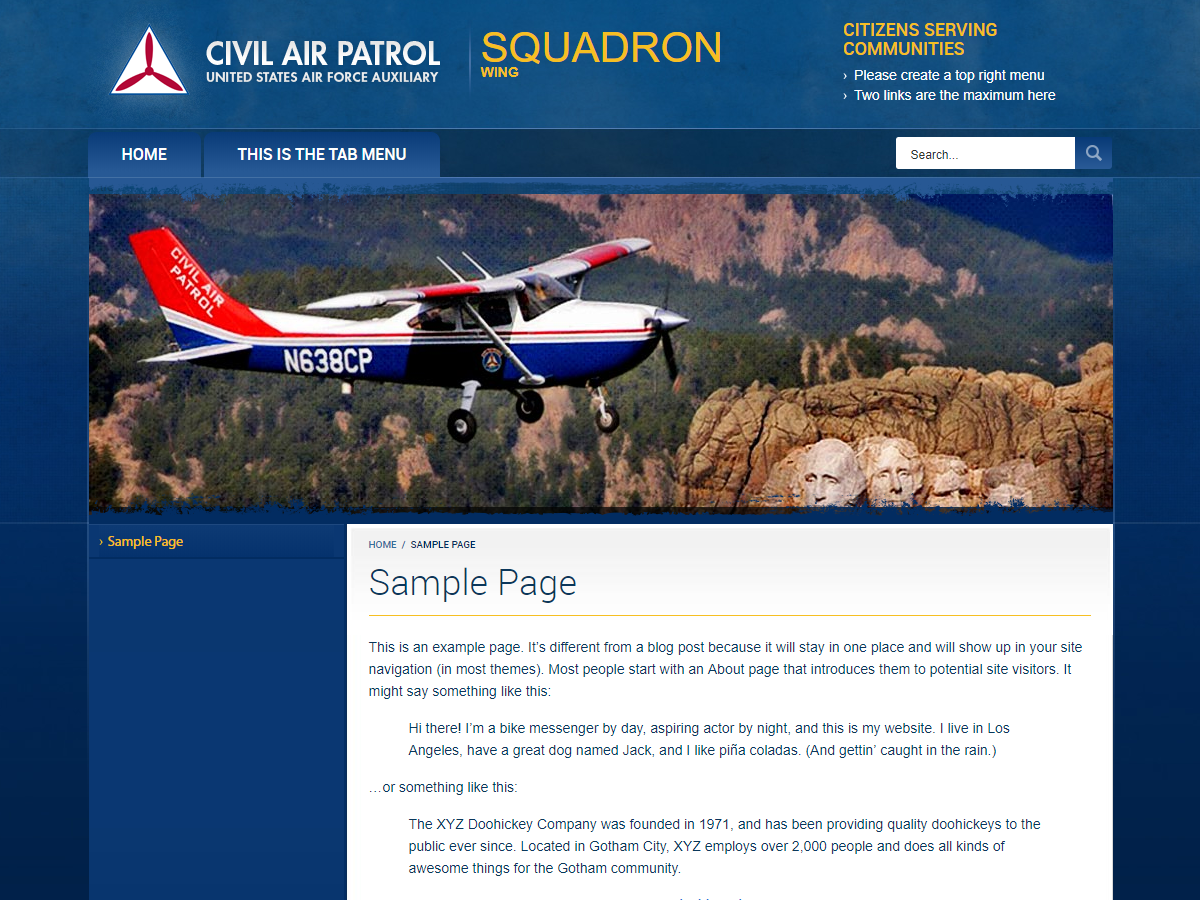
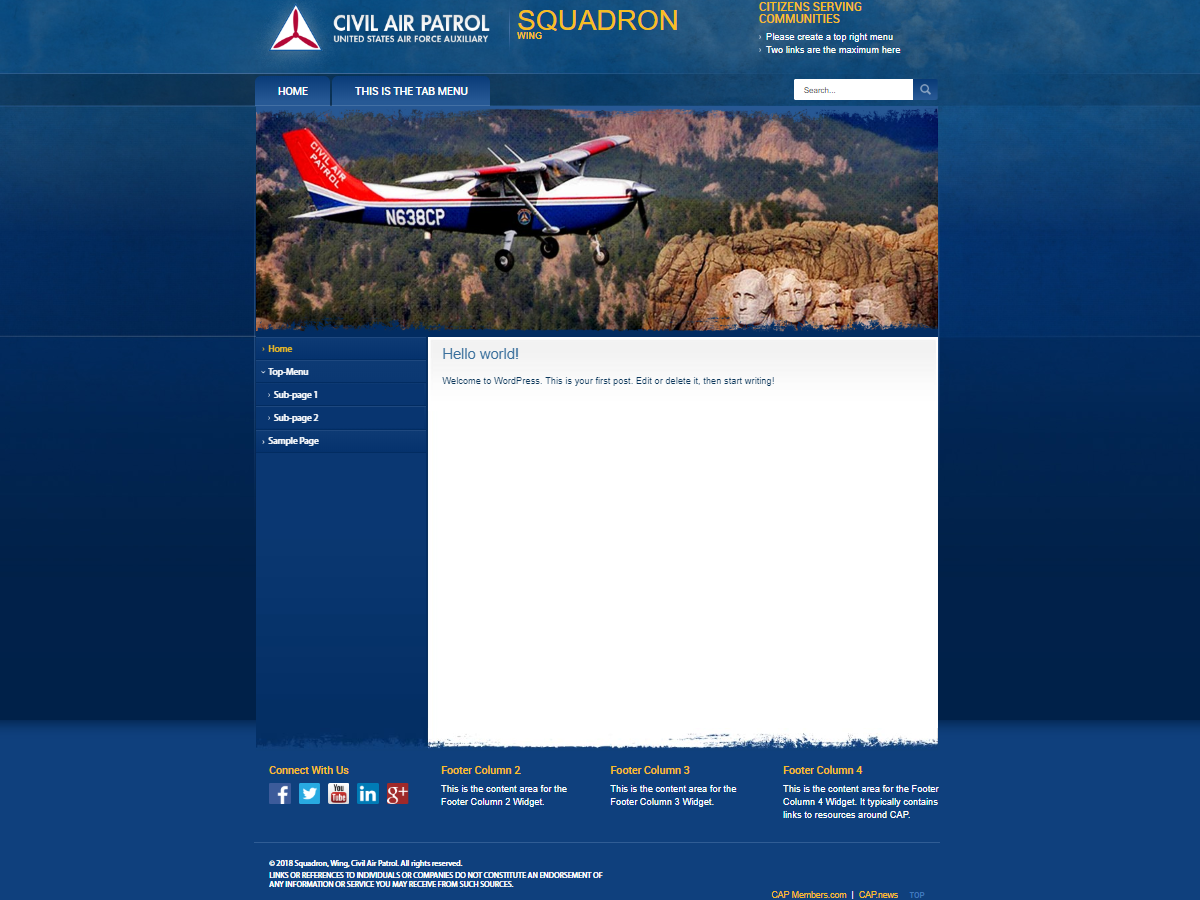
Resolves #9 - Added 2nd level menu support to side menu

diff --git a/css/screen.css b/css/screen.css
@@ -227,7 +227,7 @@ body{
 	background: rgb(9,59,120);
 	background: -moz-linear-gradient(top,  rgba(9,59,120,1) 1%, rgba(39,89,149,1) 88%);
 	background: -webkit-gradient(linear, left top, left bottom, color-stop(1%,rgba(9,59,120,1)), color-stop(88%,rgba(39,89,149,1))); /
-background: -webkit-linear-gradient(top,  rgba(9,59,120,1) 1%,rgba(39,89,149,1) 88%);
+	background: -webkit-linear-gradient(top,  rgba(9,59,120,1) 1%,rgba(39,89,149,1) 88%);
 	background: -o-linear-gradient(top,  rgba(9,59,120,1) 1%,rgba(39,89,149,1) 88%);
 	background: -ms-linear-gradient(top,  rgba(9,59,120,1) 1%,rgba(39,89,149,1) 88%);
 	background: linear-gradient(to bottom,  rgba(9,59,120,1) 1%,rgba(39,89,149,1) 88%);
@@ -392,19 +392,18 @@ background: -webkit-linear-gradient(top,  rgba(9,59,120,1) 1%,rgba(39,89,149,1) 
 	width:235px;
 	float:left;
 
-	background: rgb(13,58,116); /* Old browsers */
-	background: -moz-linear-gradient(top,  rgba(13,58,116,1) 1%, rgba(5,50,109,1) 100%); /* FF3.6+ */
-	background: -webkit-gradient(linear, left top, left bottom, color-stop(1%,rgba(13,58,116,1)), color-stop(100%,rgba(5,50,109,1))); /* Chrome,Safari4+ */
-	background: -webkit-linear-gradient(top,  rgba(13,58,116,1) 1%,rgba(5,50,109,1) 100%); /* Chrome10+,Safari5.1+ */
-	background: -o-linear-gradient(top,  rgba(13,58,116,1) 1%,rgba(5,50,109,1) 100%); /* Opera 11.10+ */
-	background: -ms-linear-gradient(top,  rgba(13,58,116,1) 1%,rgba(5,50,109,1) 100%); /* IE10+ */
-	background: linear-gradient(to bottom,  rgba(13,58,116,1) 1%,rgba(5,50,109,1) 100%); /* W3C */
-	filter: progid:DXImageTransform.Microsoft.gradient( startColorstr='#0d3a74', endColorstr='#05326d',GradientType=0 ); /* IE6-9 */
+	/*background: rgb(13,58,116); !* Old browsers *!*/
+	/*background: -moz-linear-gradient(top,  rgba(13,58,116,1) 1%, rgba(5,50,109,1) 100%); !* FF3.6+ *!*/
+	/*background: -webkit-gradient(linear, left top, left bottom, color-stop(1%,rgba(13,58,116,1)), color-stop(100%,rgba(5,50,109,1))); !* Chrome,Safari4+ *!*/
+	/*background: -webkit-linear-gradient(top,  rgba(13,58,116,1) 1%,rgba(5,50,109,1) 100%); !* Chrome10+,Safari5.1+ *!*/
+	/*background: -o-linear-gradient(top,  rgba(13,58,116,1) 1%,rgba(5,50,109,1) 100%); !* Opera 11.10+ *!*/
+	/*background: -ms-linear-gradient(top,  rgba(13,58,116,1) 1%,rgba(5,50,109,1) 100%); !* IE10+ *!*/
+	/*background: linear-gradient(to bottom,  rgba(13,58,116,1) 1%,rgba(5,50,109,1) 100%); !* W3C *!*/
+	/*filter: progid:DXImageTransform.Microsoft.gradient( startColorstr='#0d3a74', endColorstr='#05326d',GradientType=0 ); !* IE6-9 *!*/
 }
 
 .leftColumn ul li a:hover,
-.leftColumn ul li a.selected,
-.leftColumn .current-menu-item a{
+.leftColumn ul li a.selected{
 	color:#f6bf22;
 }
 
@@ -427,8 +426,7 @@ background: -webkit-linear-gradient(top,  rgba(9,59,120,1) 1%,rgba(39,89,149,1) 
 }
 
 .leftColumn ul li a:hover .arrow,
-.leftColumn ul li a.selected .arrow,
-.leftColumn .current-menu-item a .arrow{
+.leftColumn ul li a.selected .arrow{
 	background-position: 0px -6px;
 }
 

diff --git a/style.css b/style.css
@@ -11,16 +11,59 @@ h2 a {
 	font-size: inherit;
 }
 
+.leftColumn ul li {
+	background: rgb(13,58,116); /* Old browsers*/
+	background: -moz-linear-gradient(top,  rgba(13,58,116,1) 1%, rgba(5,50,109,1) 100%); /* FF3.6+ */
+	background: -webkit-gradient(linear, left top, left bottom, color-stop(1%,rgba(13,58,116,1)), color-stop(100%,rgba(5,50,109,1))); /* Chrome,Safari4+ */
+	background: -webkit-linear-gradient(top,  rgba(13,58,116,1) 1%,rgba(5,50,109,1) 100%); /* Chrome10+,Safari5.1+ */
+	background: -o-linear-gradient(top,  rgba(13,58,116,1) 1%,rgba(5,50,109,1) 100%); /* Opera 11.10+ */
+	background: -ms-linear-gradient(top,  rgba(13,58,116,1) 1%,rgba(5,50,109,1) 100%); /* IE10+ */
+	background: linear-gradient(to bottom,  rgba(13,58,116,1) 1%,rgba(5,50,109,1) 100%); /* W3C */
+	filter: progid:DXImageTransform.Microsoft.gradient( startColorstr='#0d3a74', endColorstr='#05326d',GradientType=0 ); /* IE6-9*/
+}
+
 .leftColumn .menu {
 	overflow: hidden;
 }
 
-.leftColumn .menu ul {
-	overflow: hidden;
+.leftColumn .current-menu-item a .arrow,
+.leftColumn .current-menu-item a{
+	color:#f6bf22;
+	background-position: 0px -6px;
+}
+
+.leftColumn .current-menu-item li a .arrow,
+.leftColumn .current-menu-item li a{
+	color:#fff;
+	background-position: 0px 0px;
 }
 
 .leftColumn .menu ul li {
 	float: none;
+	max-height: 32px;
+}
+
+.leftColumn ul .sub-menu {
+display: none;
+}
+
+.leftColumn ul .sub-menu li:first-child{
+border-top: 2px solid #022c61;
+margin-top: 32px;
+margin-bottom: 0px;
+}
+
+.leftColumn ul .sub-menu li:last-child{
+border-bottom: 0px;
+}
+
+.leftColumn ul .sub-menu li{
+overflow: hidden;
+}
+
+.leftColumn ul .sub-menu li a{
+height: 22px;
+background: #083570;
 }
 
 .leftColumn .menu ul li a {
@@ -32,31 +75,31 @@ h2 a {
 }
 
 .leftColumn .menu > ul > li > a:before {
-	background-image: url( images/ic-arrows.png );
-	background-position: 0px 0px;
-	background-repeat: no-repeat;
-	content: '';
-	height: 6px;
-	left: 6px;
-	position: absolute;
-	top: 14px;
-	width: 4px;
+background-image: url( images/ic-arrows.png );
+background-position: 0px 0px;
+background-repeat: no-repeat;
+content: '';
+height: 6px;
+left: 6px;
+position: absolute;
+top: 14px;
+width: 4px;
 }
 
 .leftColumn .menu ul li.current_page_item > a {
-	color: #f6bf22;
+color: #f6bf22;
 }
 
 .leftColumn .menu ul li ul {
-	border-top: #022c61 solid 2px;
-	display: none;
+border-top: #022c61 solid 2px;
+display: none;
 }
 
 .leftColumn .menu ul li.current_page_item > ul,
 .leftColumn .menu ul li.current_page_ancestor > ul {
-	display: block;
+display: block;
 }
 
 .leftColumn .menu ul li ul li:last-child {
-	border-bottom: none;
+border-bottom: none;
 }

diff --git a/js/accordion-menu.js b/js/accordion-menu.js
@@ -1,0 +1,47 @@
+$( document ).ready(function() {
+
+    $( ".leftColumn .menu-item-has-children" ).each(function() {
+        let topLink = $(this).find('a').first();
+        let subMenu  = $(this).find('ul').first();
+
+        $.fn.leftMenu = function(action, subMenu, topLink) {
+            if (action === 'show'){
+                subMenu.show();
+                topLink.find('.arrow').css('transform', 'rotate(90deg)');
+            } else {
+                subMenu.hide();
+                topLink.find('.arrow').removeAttr('style');
+            }
+
+            return this;
+        };
+
+        // Determine if a topLink is active or if sub-menu link is active and
+        // expand the menu
+        //
+        if ($(this).hasClass('current-menu-item')){
+            $.fn.leftMenu('show', subMenu, topLink);
+        }
+
+        if (subMenu.find('.current-menu-item').length){
+            $.fn.leftMenu('show', subMenu, topLink);
+        }
+
+        // Set link handler to toggle menu availability
+        //
+        topLink.click(function(event){
+            // Disable default action for placeholder links
+            if(topLink.attr('href') === '#'){
+                event.preventDefault();
+            }
+
+            if(subMenu.is(":visible")){
+                $.fn.leftMenu('hide', subMenu, topLink);
+            } else {
+                $.fn.leftMenu('show', subMenu, topLink);
+            }
+        });
+
+    });
+
+});

diff --git a/header.php b/header.php
@@ -10,6 +10,7 @@
 		<link rel="icon" type="image/ico" href="<?php print get_template_directory_uri(); ?>/favicon.ico">
 		<link media="all" type="text/css" href="<?php print get_template_directory_uri(); ?>/style.css" rel="stylesheet">
 		<script src="https://ajax.googleapis.com/ajax/libs/jquery/1.11.3/jquery.min.js"></script>
+		<script src="<?php print get_template_directory_uri(); ?>/js/accordion-menu.js"></script>
         <!-- Google Analytics -->
         <!-- End Google Analytics -->
     </head>

diff --git a/README.md b/README.md
@@ -24,6 +24,7 @@ HTML.
 superior organization.
 
 * All link areas have been converted to menus maintained by WordPress
+    * Side menu supports two level menus
 
 * Converted the slide show to a widget
 
